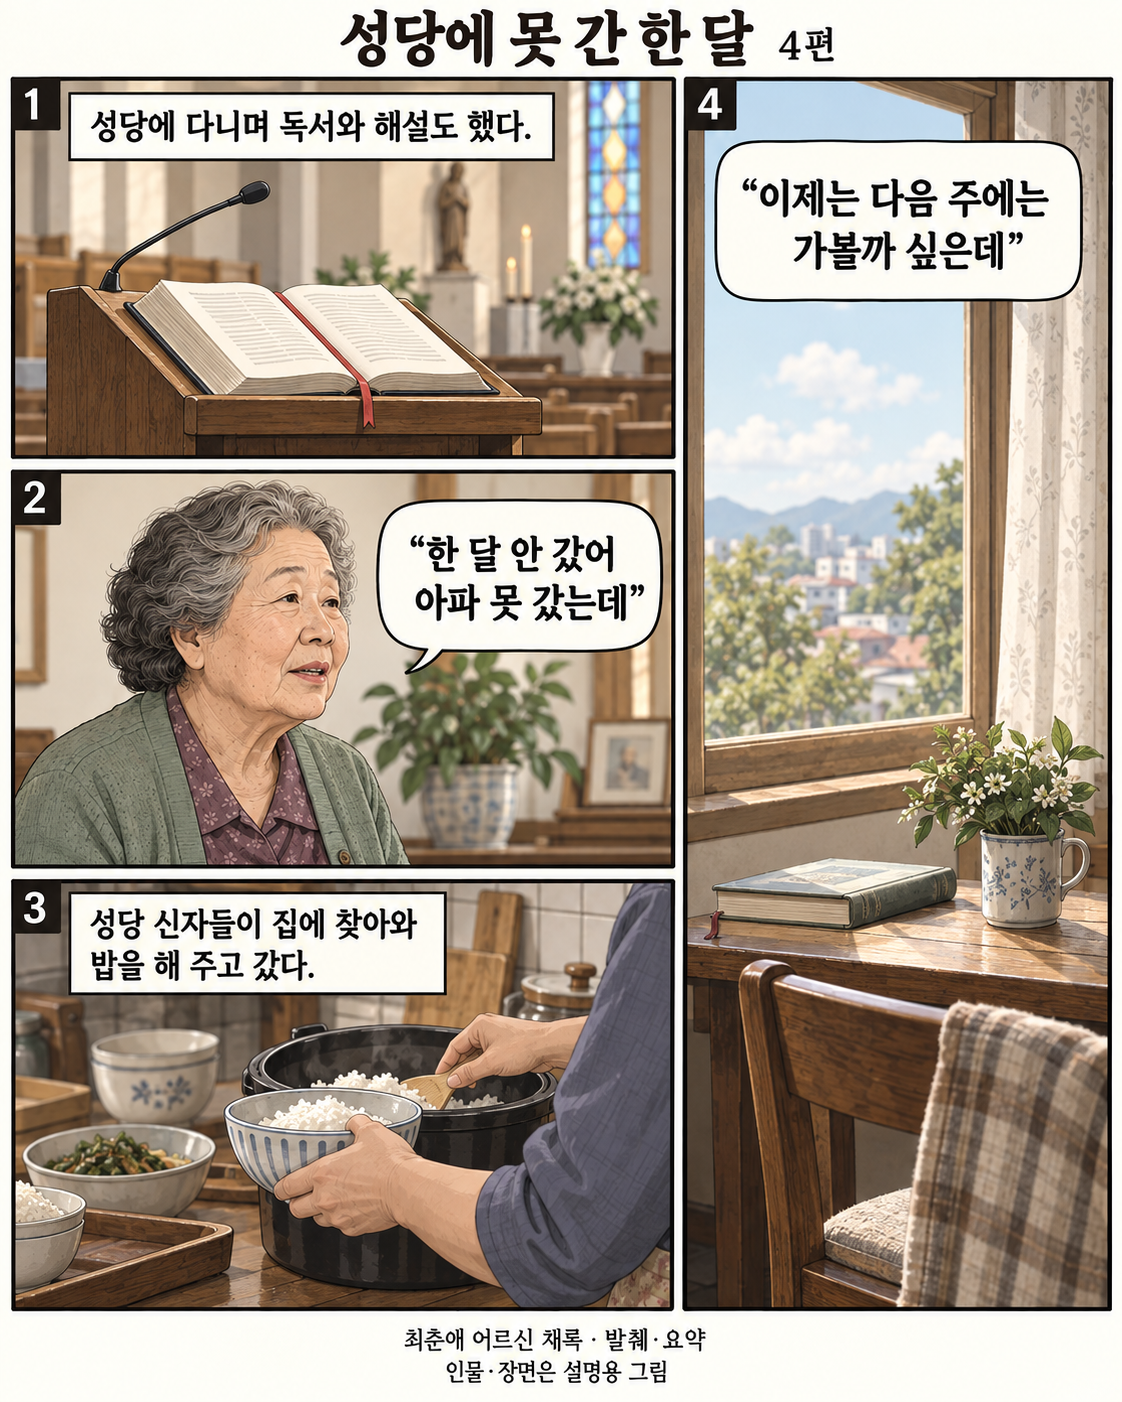
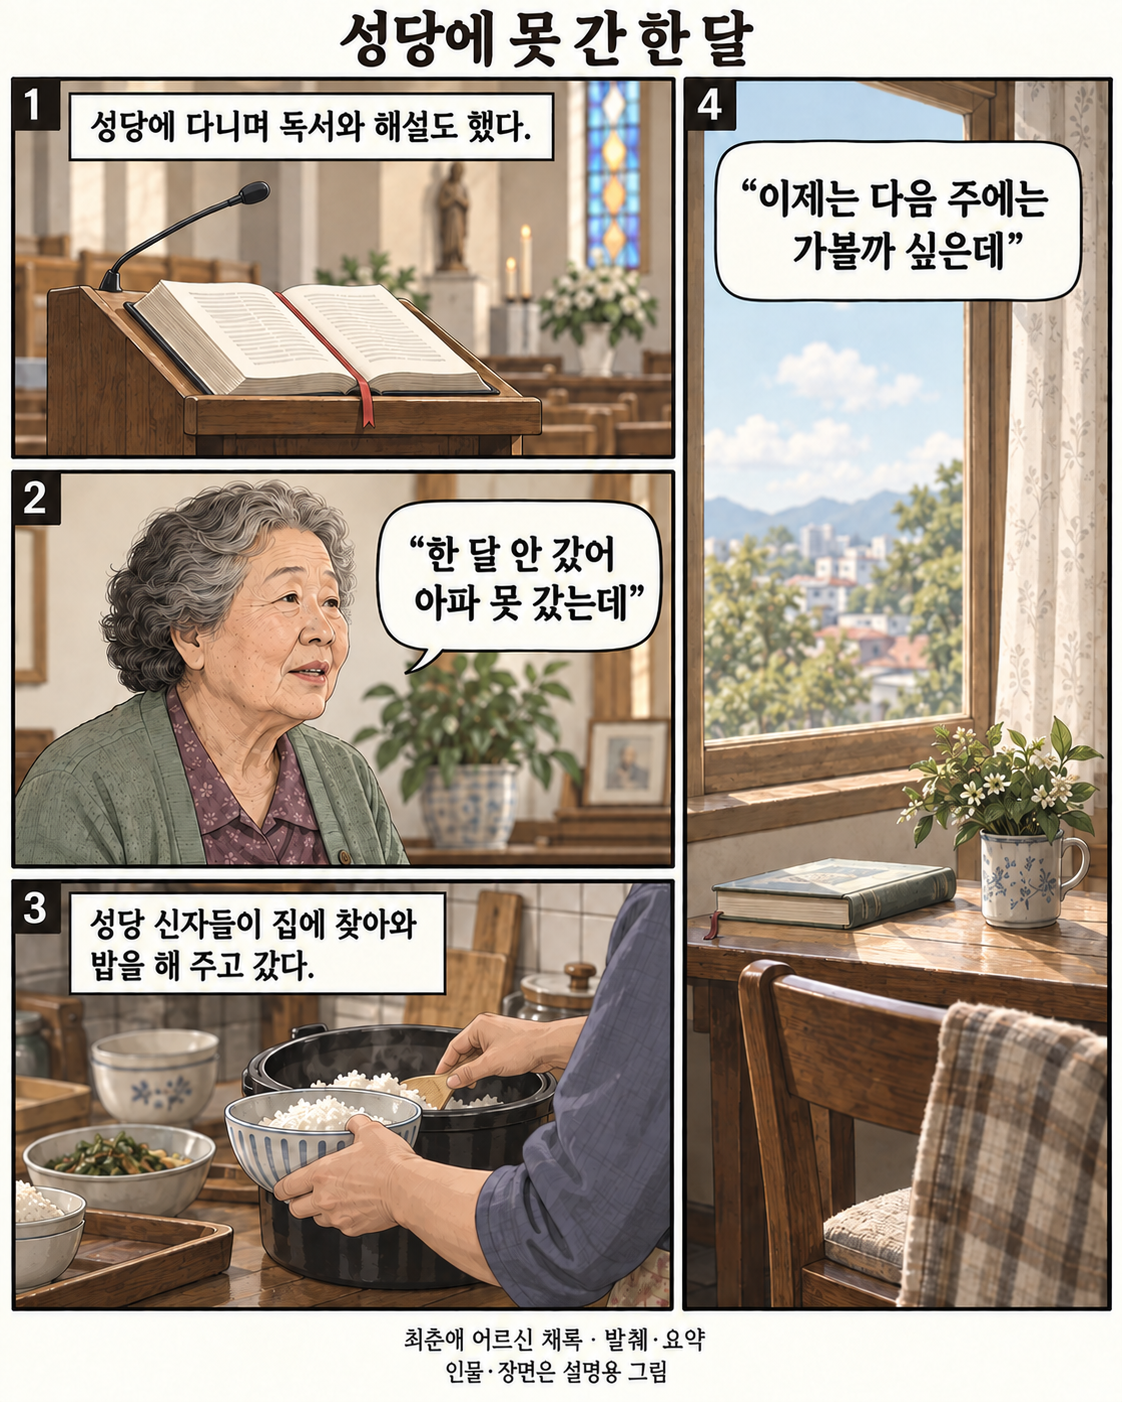
Remove episode numbers from nine comic titles and list chairmanship story only under Kwon Changyong

diff --git a/catalog.js b/catalog.js
@@ -1714,10 +1714,9 @@ window.STORY_CATALOG = {
       "title": "못 한다던 조합장 선거, 무투표 당선",
       "message": "농사를 짓던 권창용이 아내의 출마 권유와 자신의 망설임, 형의 만류를 거쳐 조합장에 무투표로 당선됐고 약 12년을 맡았다.",
       "names": [
-        "권창용",
-        "조동임"
+        "권창용"
       ],
-      "displayPerson": "권창용 · 조동임",
+      "displayPerson": "권창용",
       "aliases": [
         "춘우재 권창용·조동임",
         "[1차채록]260717 춘우재 권창용 조동임.hwp"
@@ -2000,10 +1999,10 @@ window.STORY_CATALOG = {
         }
       ],
       "auditDecision": "selected",
-      "image": "assets/choi_chunae_03.png",
+      "image": "assets/choi_chunae_03.png?v=episode-numbers-1",
       "width": 1122,
       "height": 1402,
[2 lines of base64/hex data omitted]
     },
     {
       "id": "choi_chunae_04",
@@ -2055,10 +2054,10 @@ window.STORY_CATALOG = {
         }
       ],
       "auditDecision": "selected",
-      "image": "assets/choi_chunae_04.png",
+      "image": "assets/choi_chunae_04.png?v=episode-numbers-1",
       "width": 1122,
       "height": 1402,
[2 lines of base64/hex data omitted]
     },
     {
       "id": "choi_chunae_07",
@@ -2110,10 +2109,10 @@ window.STORY_CATALOG = {
         }
       ],
       "auditDecision": "selected",
-      "image": "assets/choi_chunae_07.png",
+      "image": "assets/choi_chunae_07.png?v=episode-numbers-1",
       "width": 1122,
       "height": 1402,
[2 lines of base64/hex data omitted]
     },
     {
       "id": "go_myeongbun_01",
@@ -2495,10 +2494,10 @@ window.STORY_CATALOG = {
         }
       ],
       "auditDecision": "selected",
-      "image": "assets/kim_hwasik_09.png",
+      "image": "assets/kim_hwasik_09.png?v=episode-numbers-1",
       "width": 1122,
       "height": 1402,
[2 lines of base64/hex data omitted]
     },
     {
       "id": "yun_sunok_01",
@@ -2653,10 +2652,10 @@ window.STORY_CATALOG = {
         }
       ],
       "auditDecision": "selected",
-      "image": "assets/yun_sunok_10.png",
+      "image": "assets/yun_sunok_10.png?v=episode-numbers-1",
       "width": 1122,
       "height": 1402,
[2 lines of base64/hex data omitted]
     },
     {
       "id": "yun_sunok_12",
@@ -2715,10 +2714,10 @@ window.STORY_CATALOG = {
         }
       ],
       "auditDecision": "selected",
-      "image": "assets/yun_sunok_12.png",
+      "image": "assets/yun_sunok_12.png?v=episode-numbers-1",
       "width": 1122,
       "height": 1402,
[2 lines of base64/hex data omitted]
     },
     {
       "id": "choi_okja_03",
@@ -3384,10 +3383,10 @@ window.STORY_CATALOG = {
         }
       ],
       "auditDecision": "selected",
-      "image": "assets/kwon_changsu_03.png",
+      "image": "assets/kwon_changsu_03.png?v=episode-numbers-1",
       "width": 1122,
       "height": 1402,
[2 lines of base64/hex data omitted]
     },
     {
       "id": "kwon_changsu_06",
@@ -3496,10 +3495,10 @@ window.STORY_CATALOG = {
         }
       ],
       "auditDecision": "selected",
-      "image": "assets/kwon_changsu_06.png",
+      "image": "assets/kwon_changsu_06.png?v=episode-numbers-1",
       "width": 1122,
       "height": 1402,
[2 lines of base64/hex data omitted]
     },
     {
       "id": "kwon_changsu_07",
@@ -3608,10 +3607,10 @@ window.STORY_CATALOG = {
         }
       ],
       "auditDecision": "selected",
-      "image": "assets/kwon_changsu_07.png",
+      "image": "assets/kwon_changsu_07.png?v=episode-numbers-1",
       "width": 1122,
       "height": 1402,
[2 lines of base64/hex data omitted]
     },
     {
       "id": "park_seongjae_expand_01",

diff --git a/person.html b/person.html
@@ -40,7 +40,7 @@
     <div class="reader-top"><div><p id="readerPerson" class="eyebrow"></p><h2 id="readerTitle"></h2></div><button id="closeReader" class="close" aria-label="작품 닫기" type="button">닫기 <span aria-hidden="true">×</span></button></div>
     <div class="reader-content"><div class="comic-stage"><img id="readerImage" alt=""><div class="reader-controls"><button id="previousStory" type="button">이전 작품</button><span id="readerPosition" aria-live="polite"></span><button id="nextStory" type="button">다음 작품</button></div></div><div id="readerNotes" class="story-note" tabindex="0" role="region" aria-label="만화 배경과 해설"><span id="readerTopic" class="topic-label"></span><p id="readerMessage" class="core-message"></p><div id="readerContext" class="reader-context" hidden></div><a id="downloadImage" class="download" download>원본 이미지 받기</a><details id="evidenceDetails" open><summary>채록 원문 근거</summary><p id="sourceFile" class="source-file"></p><div id="evidenceList"></div><p class="source-disclaimer">문단·행 번호는 추출한 원문 기준입니다. 서술은 요약이며, 따옴표 안의 발언은 채록의 직접 인용입니다.</p></details></div></div>
   </dialog>
-  <script src="catalog.js?v=intro-stories-1"></script>
+  <script src="catalog.js?v=episode-numbers-1"></script>
   <script src="map-data.js?v=bios-restore-1"></script>
   <script src="context.js?v=profile-refine-1"></script>
   <script src="context-ui.js?v=profile-refine-1"></script>

diff --git a/stories.html b/stories.html
@@ -35,7 +35,7 @@
     <div class="reader-top"><div><p id="readerPerson" class="eyebrow"></p><h2 id="readerTitle"></h2></div><button id="closeReader" class="close" aria-label="작품 닫기" type="button">닫기 <span aria-hidden="true">×</span></button></div>
     <div class="reader-content"><div class="comic-stage"><img id="readerImage" alt=""><div class="reader-controls"><button id="previousStory" type="button">이전 작품</button><span id="readerPosition"></span><button id="nextStory" type="button">다음 작품</button></div></div><div id="readerNotes" class="story-note" tabindex="0" role="region" aria-label="만화 배경과 해설"><span id="readerTopic" class="topic-label"></span><p id="readerMessage" class="core-message"></p><div id="readerContext" class="reader-context" hidden></div><a id="downloadImage" class="download" download>원본 이미지 받기</a><details id="evidenceDetails" open><summary>채록 원문 근거</summary><p id="sourceFile" class="source-file"></p><div id="evidenceList"></div><p class="source-disclaimer">문단·행 번호는 추출한 원문 기준입니다. 서술은 요약이며, 따옴표 안의 발언은 채록의 직접 인용입니다.</p></details></div></div>
   </dialog>
-  <script src="catalog.js?v=intro-stories-1"></script>
+  <script src="catalog.js?v=episode-numbers-1"></script>
   <script src="search.js?v=bios-restore-1"></script>
   <script src="context.js?v=profile-refine-1"></script>
   <script src="context-ui.js?v=profile-refine-1"></script>

diff --git a/people.html b/people.html
@@ -34,7 +34,7 @@
     <noscript><p>인물 목록을 보려면 자바스크립트를 켜 주세요. <a href="index.html">지도로 돌아가기</a></p></noscript>
   </main>
   <footer><a href="index.html">예천의 장면들</a><span id="directoryFooterCount"></span><a href="about.html">작업 과정 보기</a></footer>
-  <script src="catalog.js?v=intro-stories-1"></script>
+  <script src="catalog.js?v=episode-numbers-1"></script>
   <script src="map-data.js?v=bios-restore-1"></script>
   <script src="search.js?v=bios-restore-1"></script>
   <script src="people.js?v=bios-restore-1"></script>

diff --git a/index.html b/index.html
@@ -41,7 +41,7 @@
     <p class="map-footnote">지역 경계와 읍·면 이름은 현행 행정구역을 기준으로 표시했습니다.</p>
   </main>
   <footer><span>예천의 장면들</span><span id="footerCount"></span><span>각 작품에서 원문 근거를 확인할 수 있습니다.</span></footer>
-  <script src="catalog.js?v=intro-stories-1"></script>
+  <script src="catalog.js?v=episode-numbers-1"></script>
   <script src="map-data.js?v=bios-restore-1"></script>
   <script src="map.js?v=bios-restore-1"></script>
 </body>
